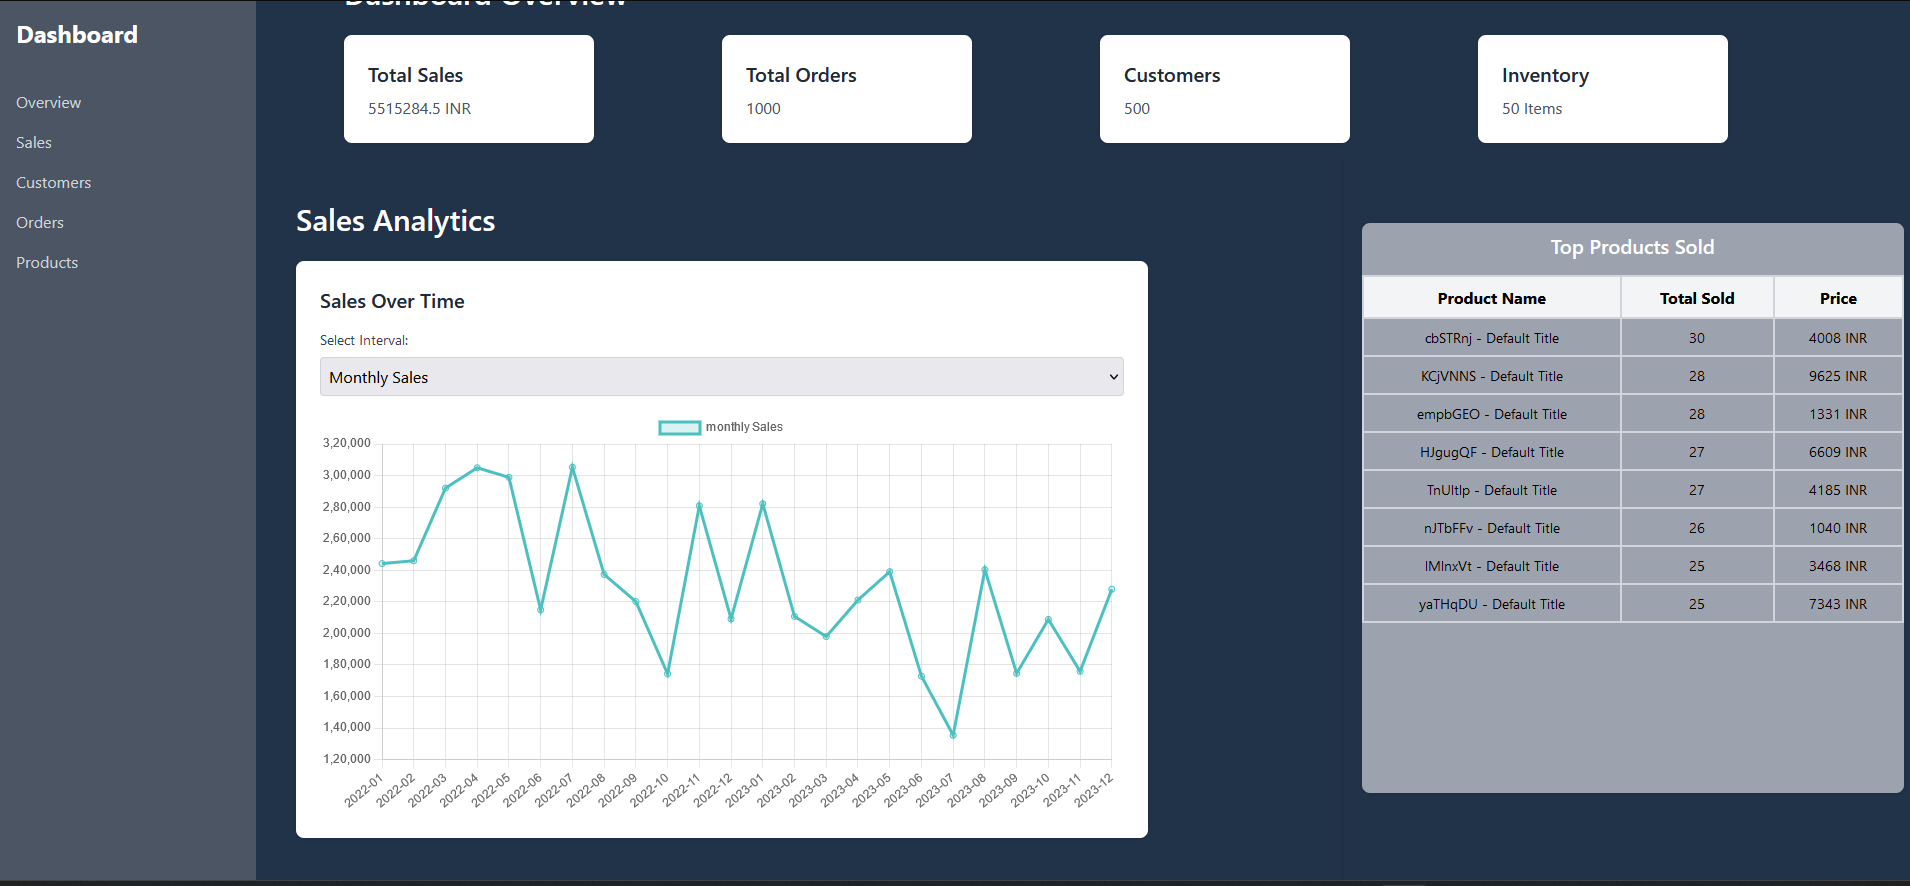
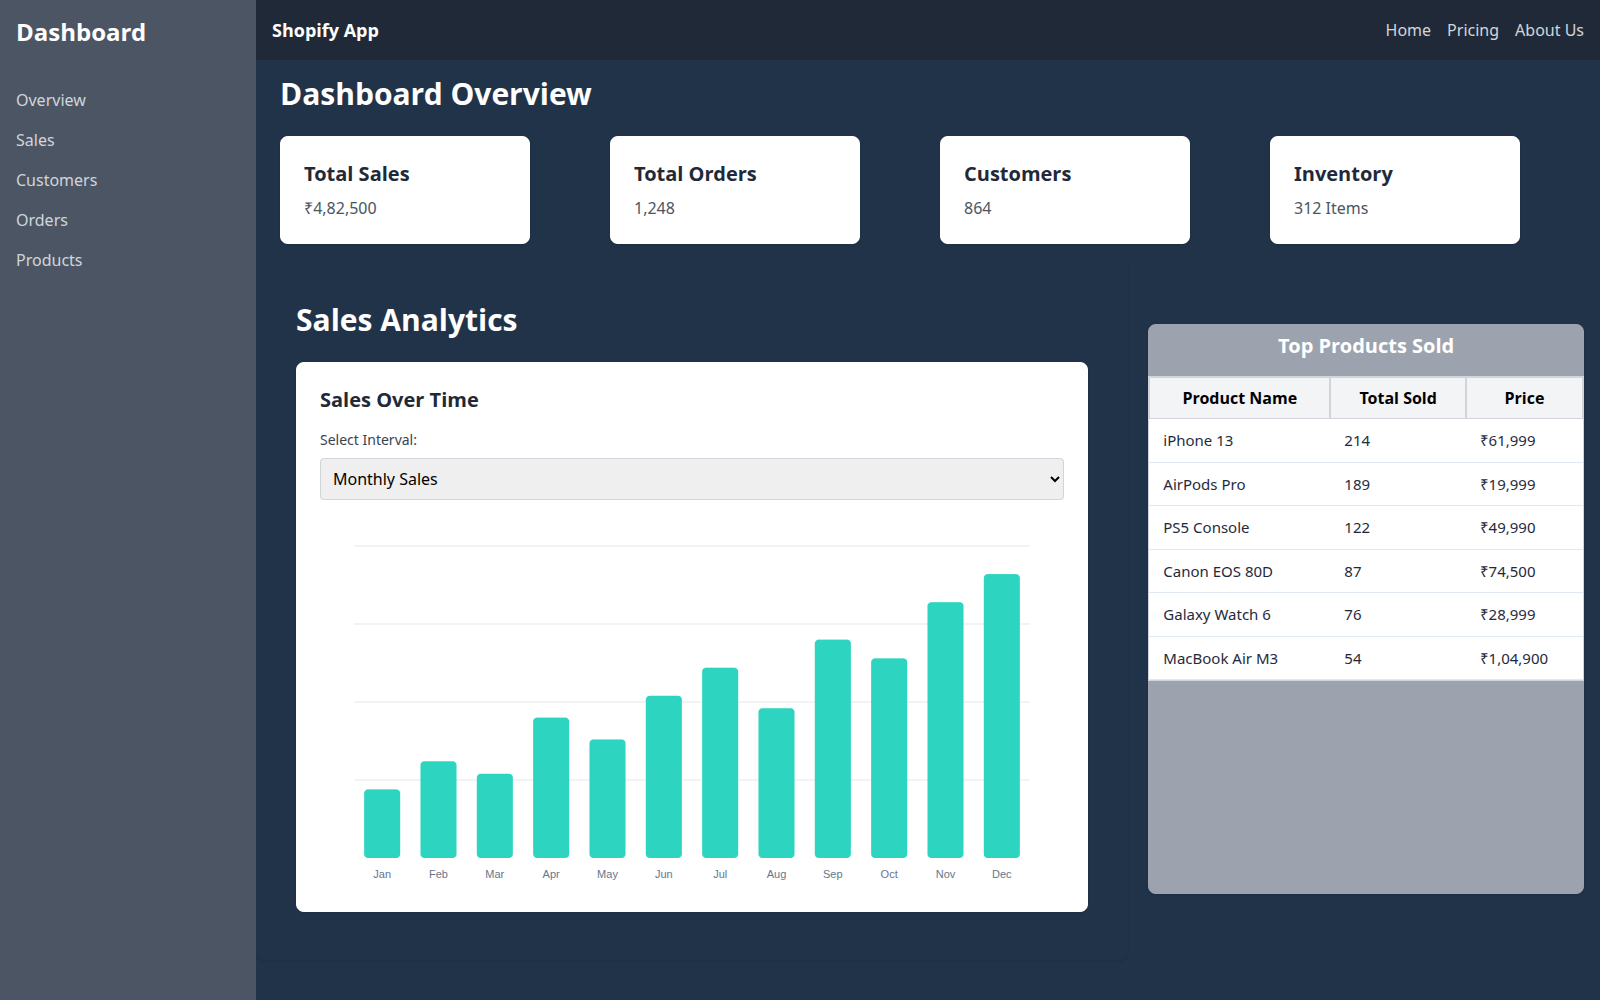
Professional e-commerce thumbnails (populated dashboard, product grid); steaminc live link

diff --git a/src/content.js b/src/content.js
@@ -159,7 +159,7 @@ export const projects = [
     title: 'Steaminc',
     desc: 'Finds where any movie is legally streaming in your region, and plays public-domain films straight from the Internet Archive.',
     stack: ['Node.js', 'JavaScript', 'TMDB API', 'Docker'],
-    link: 'https://github.com/aravindshajan6/steaminc',
+    link: 'https://steaminc.onrender.com/',
     featured: true,
   },
   {
